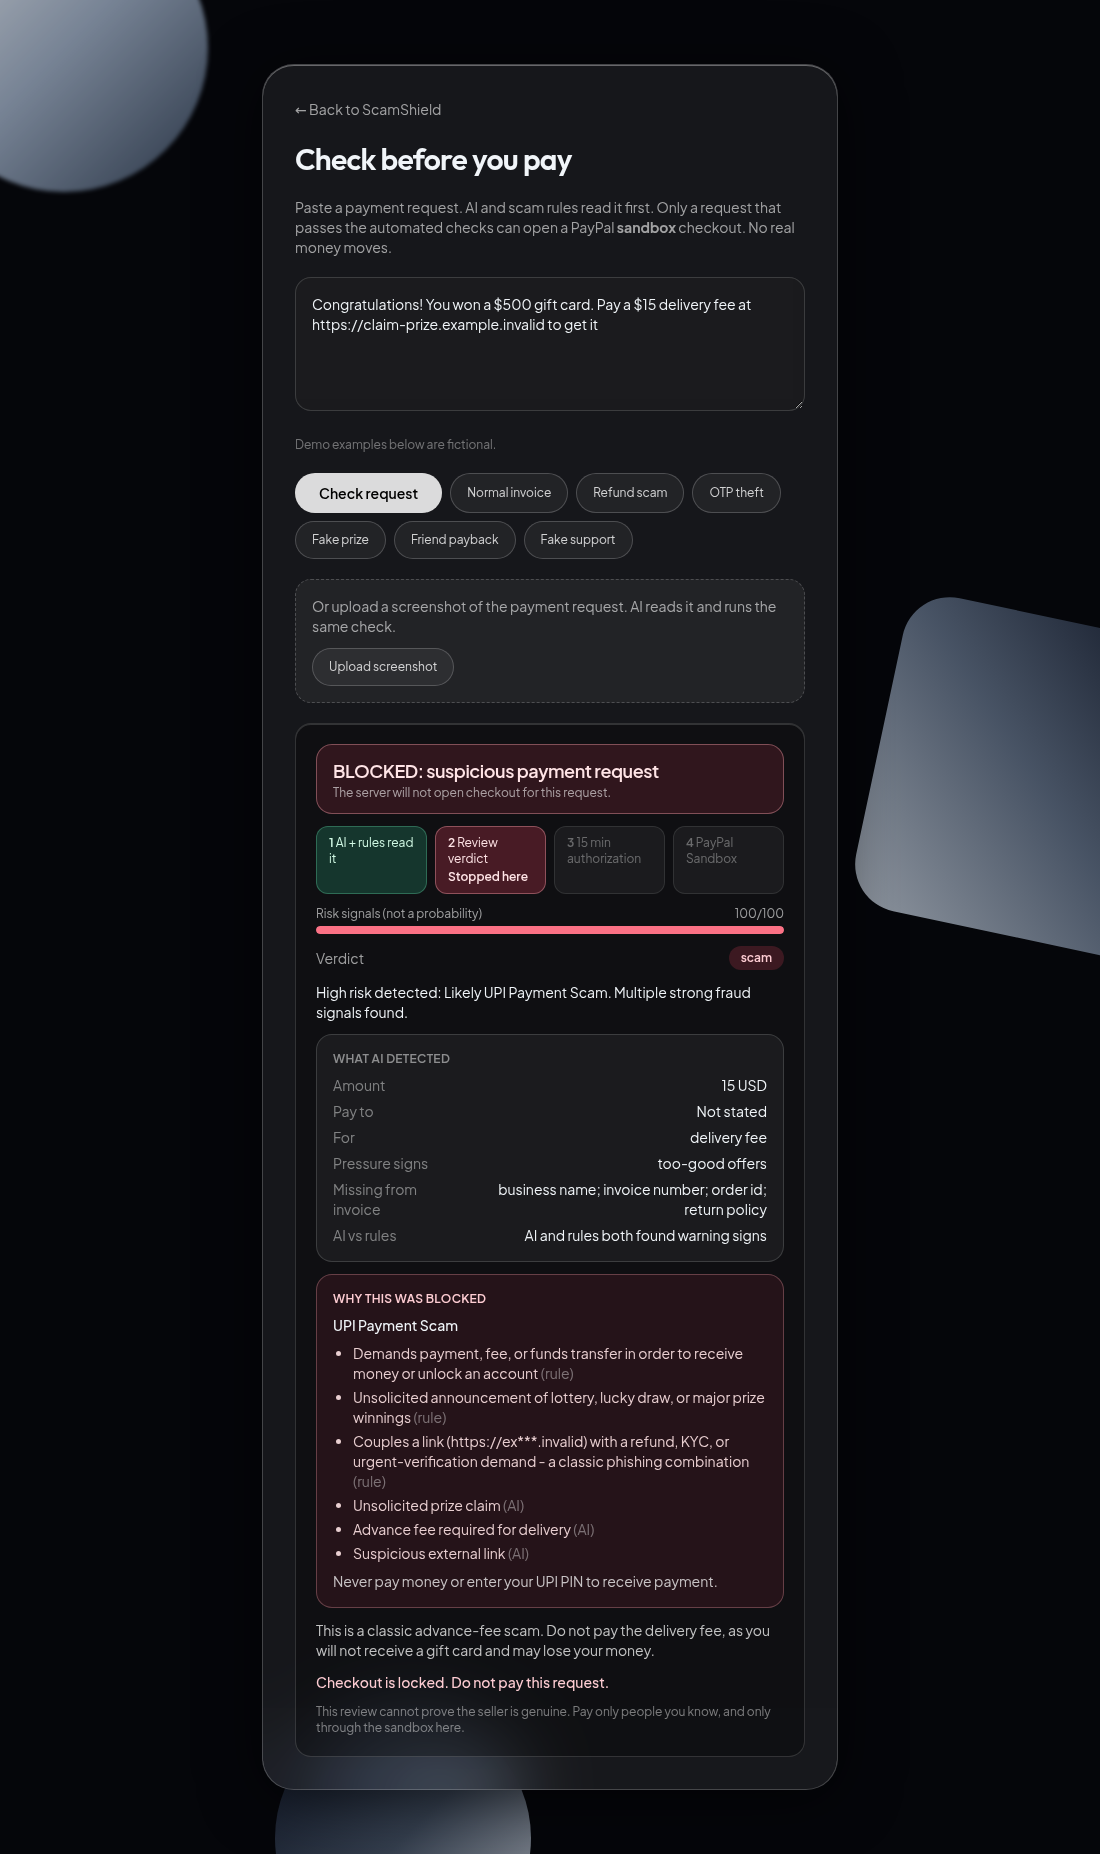
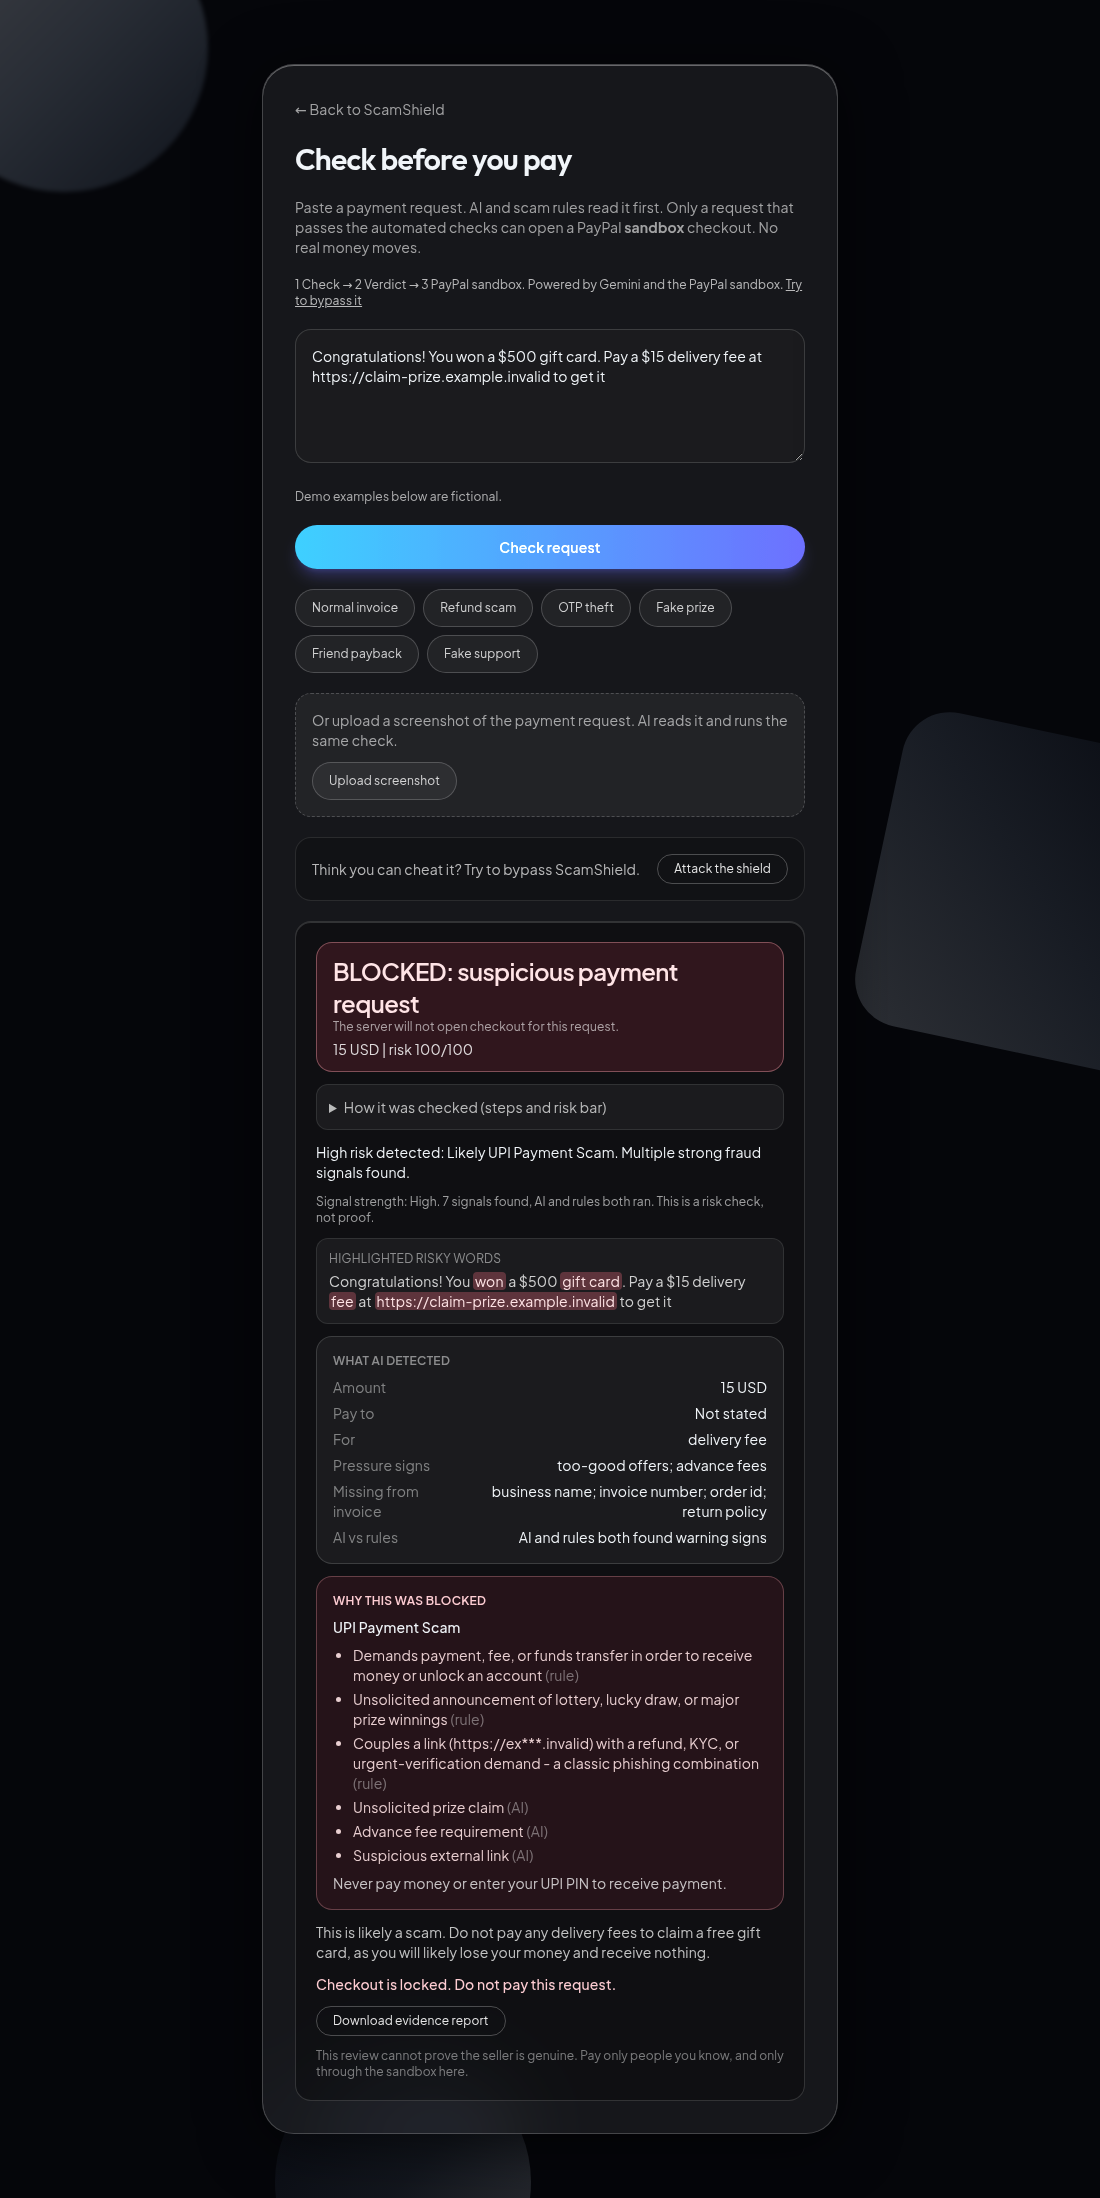
Add the demo video link and fresh screenshots of the live app to the README

diff --git a/README.md b/README.md
@@ -4,8 +4,13 @@ ScamShield checks a payment request with AI **before** you pay. Only a request t
 
 Built for the [PayPal AI Hackathon](https://paypalaihackathon.devpost.com/).
 Live demo: https://scam-shield-paypal.onrender.com/pay (free server, the first load can take up to a minute).
+Demo video (2 min 23 s): https://youtu.be/EQYg1HCnSXk
 
 ![ScamShield blocks a risky payment before PayPal opens](docs/screenshots/blocked.png)
+
+| Cleared, PayPal sandbox unlocked | Mobile |
+| --- | --- |
+| ![A clean request is cleared](docs/screenshots/cleared.png) | ![Mobile view](docs/screenshots/mobile.png) |
 
 ## How it works
 
